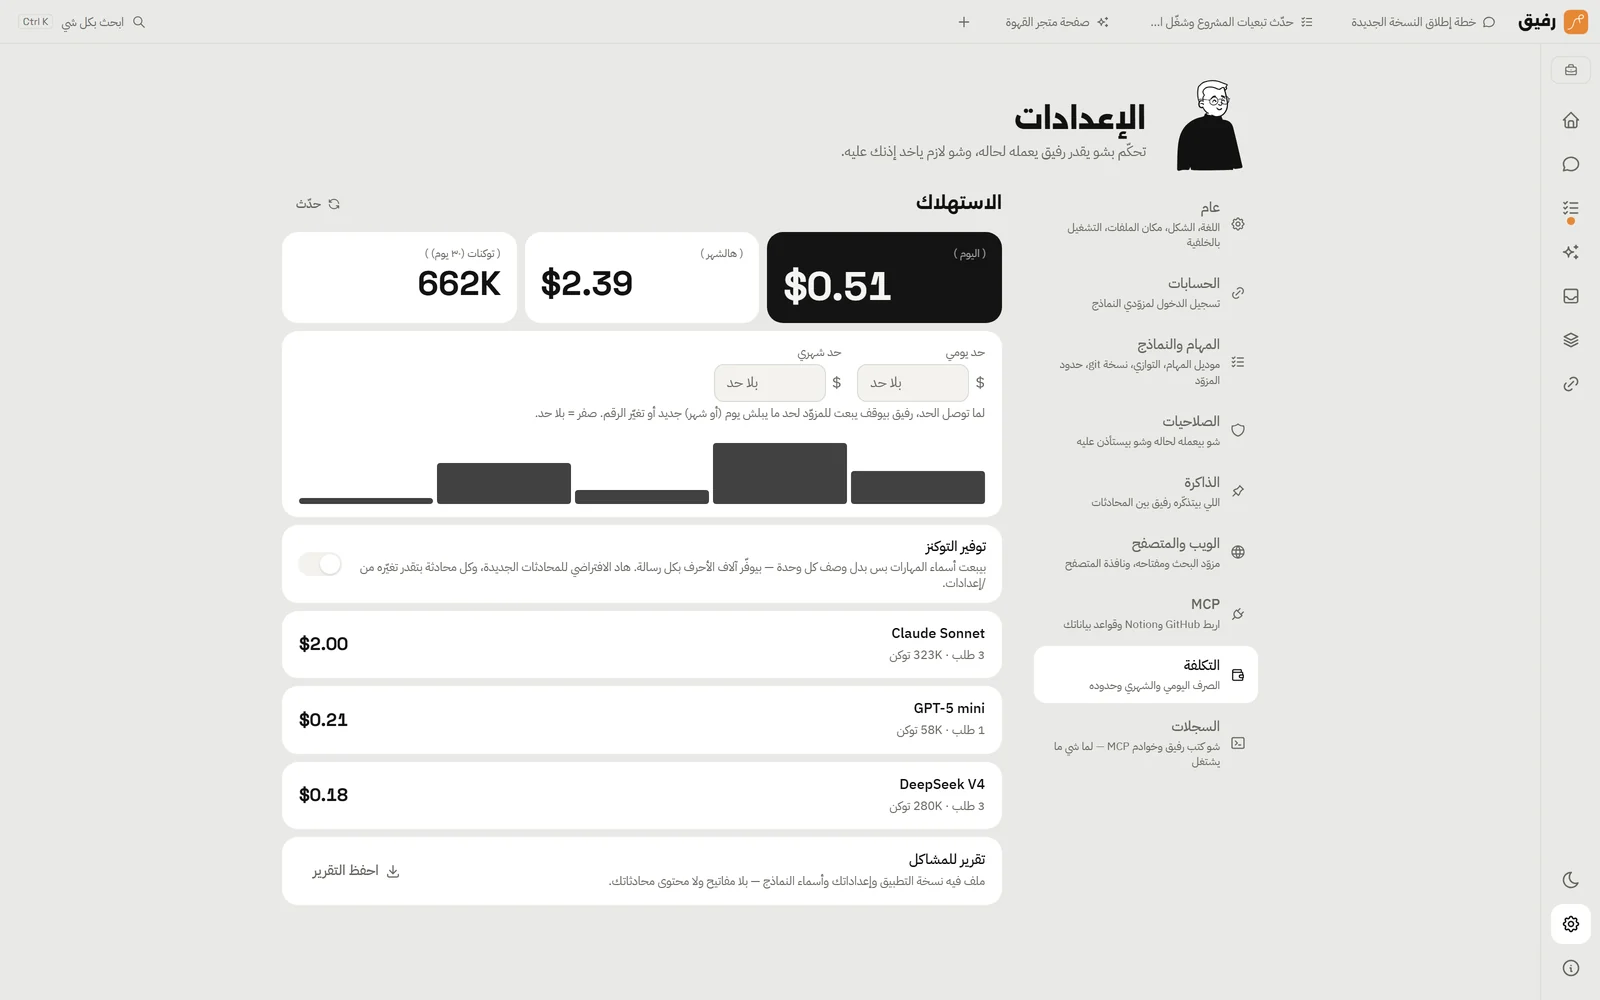
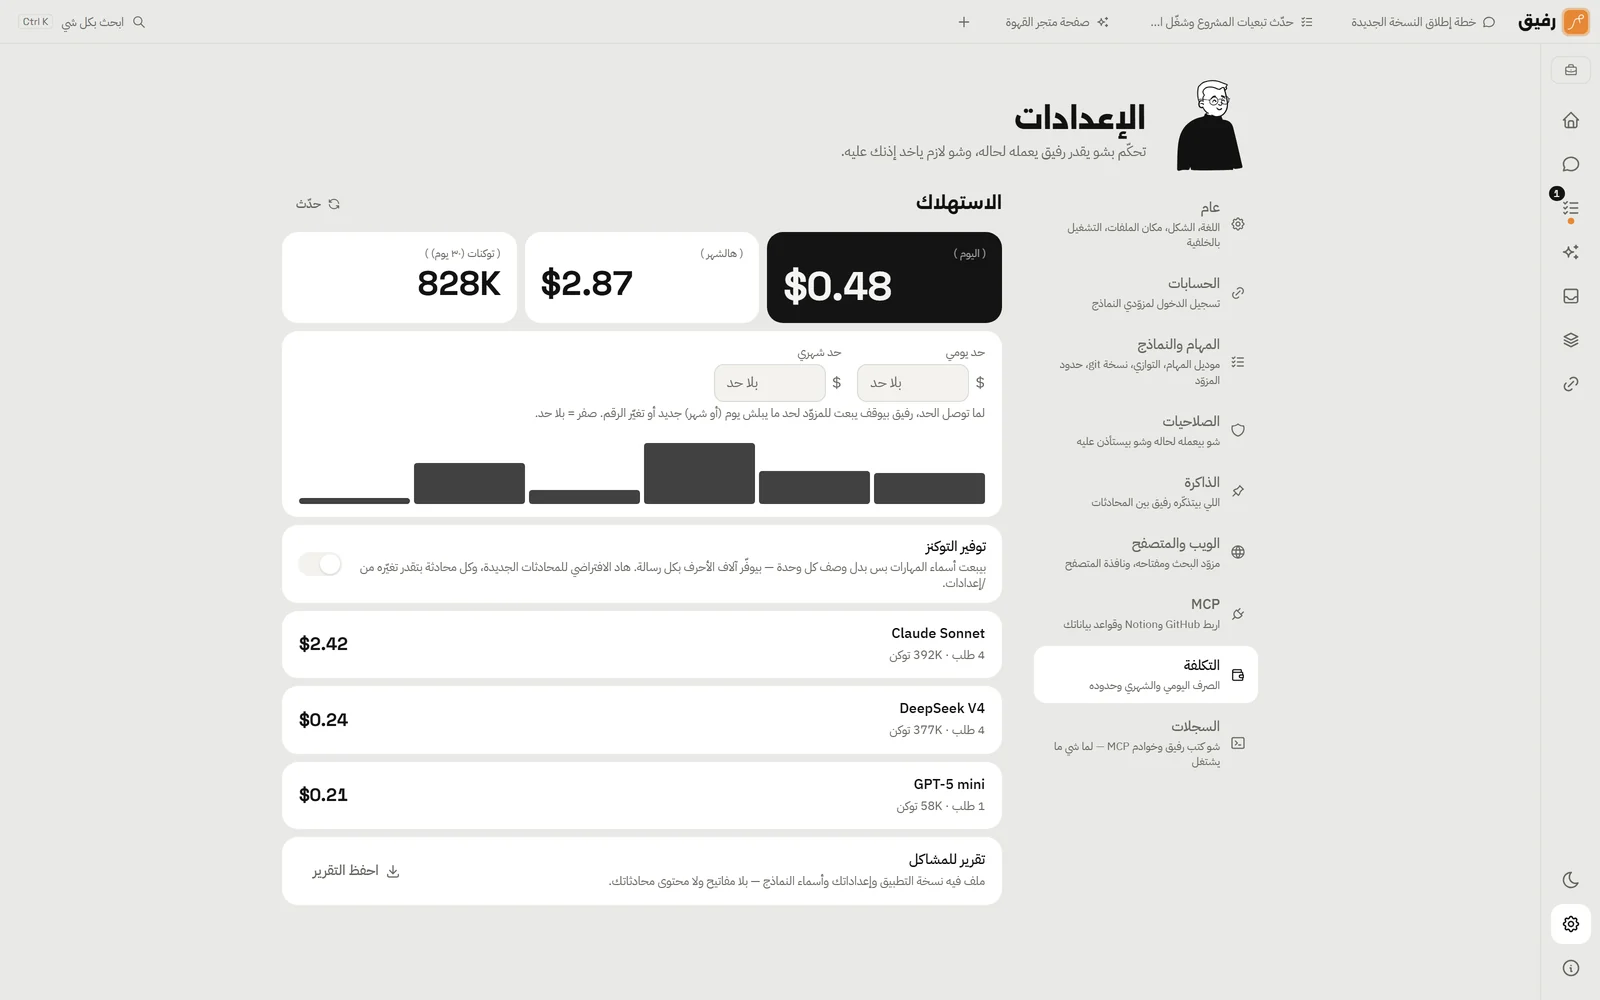
docs: dark mode and more screenshots
A dark-mode gallery, and schedules, designs, connections, Ctrl+K, settings and About in the new look.

diff --git a/README.md b/README.md
@@ -76,6 +76,39 @@ The whole interface is Arabic and right-to-left from the ground up, everything r
 | <img src="docs/screenshots/models.webp" width="100%"> | <img src="docs/screenshots/cost.webp" width="100%"> |
 | Every model you connected, cloud or local, with its status, its fallback and what it cost over the last 30 days. | Today, this month and the tokens behind them, daily and monthly limits, and the spend of each model. |
 
+| Schedules | All your designs |
+|:---:|:---:|
+| <img src="docs/screenshots/schedules.webp" width="100%"> | <img src="docs/screenshots/designs.webp" width="100%"> |
+| Tasks that start on their own, every day, on chosen weekdays or every few hours, with the next run set large. | Every design as a live thumbnail, the skills the model designs with, and one click to install more. |
+
+| Connections | Ctrl+K opens everything |
+|:---:|:---:|
+| <img src="docs/screenshots/integrations.webp" width="100%"> | <img src="docs/screenshots/palette.webp" width="100%"> |
+| Jira, Linear, GitHub and GitLab issues, connected once and brought into any chat with `#`. | Every page, command, chat, task and design in one box, from anywhere in the app. |
+
+| Settings | About |
+|:---:|:---:|
+| <img src="docs/screenshots/settings.webp" width="100%"> | <img src="docs/screenshots/about.webp" width="100%"> |
+| Language, layout, where your files live, backups, and every permission, each section saying what's inside it. | What Rafiq is, what it can do, and who made it. |
+
+### Dark mode
+
+| Home | Chat |
+|:---:|:---:|
+| <img src="docs/screenshots/home-dark.webp" width="100%"> | <img src="docs/screenshots/chat-dark.webp" width="100%"> |
+
+| Tasks | One task |
+|:---:|:---:|
+| <img src="docs/screenshots/tasks-dark.webp" width="100%"> | <img src="docs/screenshots/task-dark.webp" width="100%"> |
+
+| Designs | Skill editor |
+|:---:|:---:|
+| <img src="docs/screenshots/design-dark.webp" width="100%"> | <img src="docs/screenshots/skills-dark.webp" width="100%"> |
+
+| Models | Schedules |
+|:---:|:---:|
+| <img src="docs/screenshots/models-dark.webp" width="100%"> | <img src="docs/screenshots/schedules-dark.webp" width="100%"> |
+
 </div>
 
 ---
